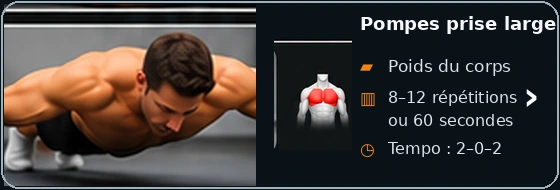
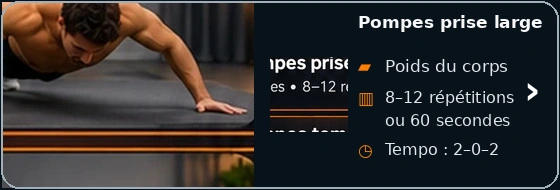
Add files via upload

diff --git a/sw.js b/sw.js
@@ -1,5 +1,5 @@
-const CACHE="ma-bibliotheque-v74";
-const ASSETS=["./","./index.html","./styles.css","./app.js","./data.json","./manifest.json","./icon-192.png","./icon-512.png","./cat-cakes-desserts.webp","./cat-cakes-sales-terrines.webp","./cat-pancakes-gaufres.webp","./cat-pains-pizzas-bruschettas.webp","./cat-quiches-tartes.webp","./cat-pates-a-tartiner.webp","./cat-plats-sales.webp","./cat-recettes-mer.webp","./cat-pates.webp","./cat-salades.webp","./cat-soupes.webp","./cat-mijoteuse.webp","./univers-musculation.webp","./muscu-menu-exercices.png","./muscu-menu-seances.png","./muscu-menu-autre-sport.png","./muscu-menu-historique.png","./exercice-groupe-pectoraux.webp","./exercice-groupe-dos.webp","./exercice-groupe-epaules.webp","./exercice-groupe-biceps.webp","./exercice-groupe-triceps.webp","./exercice-groupe-jambes.webp","./exercice-groupe-abdominaux.webp","./biceps-curl-marteau.webp","./biceps-curl-classique.webp","./biceps-curl-alterne.webp","./biceps-curl-concentration.webp","./biceps-curl-zottman.webp","./biceps-curl-prise-inversee.webp","./biceps-curl-assis.webp","./biceps-curl-unilateral.webp","./biceps-curl-isometrique.webp","./biceps-curl-kettlebell.webp","./seance-haut-corps-v2.png","./seance-bas-corps-v2.png","./seance-corps-complet-v2.png","./seance-abdos-gainage-v2.png","./sport-marche-v3.png","./sport-course-v3.png","./sport-velo-v3.png","./sport-velo-appartement-v3.png","./sport-paddle-v3.png","./recette-r014-gaufres-ig-bas-proteinees.png","./recette-r017-pancakes-proteines-ig-bas.png","./recette-r001-appareil-a-quiche-proteine-ig-bas.png","./recette-r013-gaufres-au-thon.png","./recette-r021-quiche-proteinee-legumes-sans-pate.png","./recette-r022-quiche-proteinee-legumes-thon-sans-pate.png","./recette-r023-quiche-proteinee-poulet-epinards-skyr-sans-pate.png","./recette-r029-pate-brisee-farine-pois-chiches.png","./recette-r031-pancakes-courgettes-parmesan.png","./recette-r019-choco-noisette-saine.png","./recette-r020-choco-noisette-ig-bas.png","./recette-r035-pate-amandes.png","./recette-r036-pate-cacahuetes.png","./recette-r058-veloute-pois-chiches-courgette-poireau-cumin.webp","./recette-r101-salade-poulet-avocat-oeufs.webp","./recette-r102-salade-pommes-terre-thon-oeufs.webp","./recette-r103-salade-cabillaud-avocat-oeufs.webp","./recette-r104-salade-poulet-croustillant.webp","./recette-r105-salade-mediterraneenne-pois-chiches.webp","./recette-r106-salade-pates-poulet-mozzarella.webp","./recette-r107-salade-crevettes-avocat-mangue.webp","./recette-r108-salade-quinoa-legumes-rotis-pois-chiches.webp","./recette-r109-salade-boeuf-grille-avocat.webp","./recette-r110-salade-riz-basmati-thon-oeufs.webp","./recette-r089-lasagnes-volaille-legumes.webp","./recette-r090-lasagnes-blanches-volaille-legumes.webp","./recette-r126-pates-poulet-courgettes-tomates.webp","./recette-r127-pates-pesto-tomates-parmesan.webp","./recette-r128-pates-cremeuses-poulet-champignons-epinards.webp","./recette-r129-pates-poulet-epinards-tomates.webp","./recette-r130-pates-thon-courgette-poivron-olives.webp","./recette-r131-pates-brocoli-burrata-tomates.webp","./recette-r132-pates-lentilles-corail-basilic.webp","./recette-r133-pates-lentilles-corail-tomates-confites-basilic.webp","./recette-r071-bowl-calamars-romaine.webp","./recette-r072-tacos-calamars-romaine.webp","./recette-r073-calamars-orge-legumes-rotis.webp","./recette-r074-risotto-mer-citron-safran-calamars.webp","./recette-r078-crevettes-courgettes-quinoa.webp","./recette-r079-crevettes-pois-chiches-legumes.webp","./recette-r002-cake-chocolat-poire-pepites.png","./recette-r005-cake-marbre-proteine-avoine-amande-lupin.png","./recette-r007-cake-proteine-myrtilles-chocolat.png","./recette-r011-flan-proteine-myrtille-citron.png","./recette-r030-gateau-fromage-blanc.png","./recette-r037-clafoutis-leger-pommes.png","./recette-r075-cake-proteine-ananas-coco-vanille.png","./recette-r076-tiramisu-proteine-cafe-chia.png","./recette-r077-tiramisu-proteine-poire-chocolat-chia.png","./recette-r091-cake-proteine-banane-chocolat.png","./recette-r092-cake-proteine-pomme-cannelle.png","./recette-r093-cake-proteine-banane-coco.png","./recette-r094-cake-proteine-chocolat-compote.png","./recette-r095-cake-proteine-poire-amande.png","./recette-r096-cake-proteine-carotte-cannelle-noix.png","./recette-r097-cake-proteine-banane-fruits-rouges.png","./recette-r098-cake-proteine-pomme-coco.png","./recette-r099-cake-proteine-citron-amande.png","./recette-r100-cake-proteine-banane-cacao-noisette.png","./recette-r003-cake-courgette-poivron-feta.png","./recette-r004-cake-jambon-epinards-chevre.png","./recette-r006-cake-poulet-courgette-parmesan.png","./recette-r008-cake-legumes-du-soleil.png","./recette-r009-cake-thon-courgette-skyr-sans-farine.png","./recette-r010-cake-thon-tomate-olives.png","./recette-r024-terrine-legumes-ete.png","./recette-r025-terrine-fraiche-thon-courgette.png","./recette-r038-cake-epinards-feta.png","./recette-r039-cake-poulet-curry.png","./recette-r040-cake-poivron-mozzarella.png","./recette-r041-cake-champignons-comte.png","./recette-r042-cake-carotte-chevre.png","./recette-r043-cake-thon-olives.png","./recette-r080-flan-courgettes-parmesan-skyr.png","./recette-r081-terrine-poulet-legumes.png","./recette-r082-clafoutis-tomates-courgettes-fromage.png","./recette-r083-terrine-champignons-poireaux-emmental.png","./recette-r084-gateau-pommes-terre-courgettes-chevre.png","./recette-r085-gateau-pommes-terre-chou-fleur-chevre.png","./recette-r026-wok-poulet-pousses-soja.png","./recette-r059-poulet-pommes-terre-brocoli.png","./recette-r060-saumon-riz-legumes.png","./recette-r061-poulet-cremeux-champignons-pates.png","./recette-r062-boeuf-pommes-terre-carottes-mijotes.png","./recette-r063-saucisses-pommes-terre-poivrons.png","./recette-r064-poulet-riz-legumes.png","./recette-r065-crevettes-riz-brocoli.png","./recette-r066-poulet-tex-mex-haricots-mais.png","./recette-r067-gnocchis-poulet-tomates.png","./recette-r068-boulettes-boeuf-orzo-tomates.png","./recette-r069-poulet-citron-orzo-epinards.png","./recette-r070-boeuf-cremeux-champignons-pates.png","./recette-r112-boeuf-bourguignon-mijoteuse-v2.png","./recette-r113-poulet-cremeux-ail-v2.png","./recette-r114-porc-effiloche-sauce-barbecue-v2.png","./recette-r115-ragout-boeuf-legumes-pommes-terre-v2.png","./recette-r116-boulettes-boeuf-sauce-tomate-v2.png","./recette-r117-poulet-champignons-creme-v2.png","./recette-r118-boeuf-oignons-sauce-brune-v2.png","./recette-r119-poulet-citron-herbes-v2.png","./recette-r120-porc-champignons-oignons-v2.png","./recette-r121-chili-boeuf-haricots-blancs-v2.png","./recette-r122-poulet-cremeux-pommes-terre-v3.png","./recette-r123-boeuf-mijote-thym-v2.png","./recette-r124-poulet-barbecue-miel-v3.png","./recette-r125-roti-porc-pommes-terre-v3.png","./recette-r012-fougasse-petit-epeautre-v2.png","./recette-r015-pain-complet-ig-bas-v2.png","./recette-r016-pain-pomme-terre-skyr-v2.png","./recette-r018-pate-pizza-ig-bas-v2.png","./recette-r027-pain-sarrasin-pois-chiches-graines-v2.png","./recette-r028-pain-sarrasin-v2.png","./recette-r032-pizza-express-proteinee-v2.png","./recette-r033-petits-pains-pois-chiches-v2.png","./recette-r034-pain-lentilles-corail-v2.png","./recette-r044-bruschetta-tomate-basilic-v2.png","./recette-r045-bruschetta-mozzarella-tomates-cerises.png","./recette-r046-bruschetta-jambon-cru-roquette.png","./recette-r047-bruschetta-ricotta-miel.png","./recette-r048-bruschetta-champignons-ail.png","./recette-r049-bruschetta-poivron-roti.png","./recette-r050-bruschetta-saumon-fromage-frais.png","./recette-r051-bruschetta-avocat-citron-vert.png","./recette-r052-bruschetta-thon-olives.png","./recette-r053-bruschetta-chevre-figues.png","./recette-r054-bruschetta-pesto-tomates-sechees.png","./recette-r055-bruschetta-burrata-pesto.png","./recette-r056-bruschetta-poulet-tomates-sechees.png","./recette-r057-bruschetta-crevettes-avocat.png","./recette-r086-pain-lentilles-corail.png","./recette-r087-pain-lentilles-avoine-lupin.png","./recette-r088-pain-nordique-graines.png","./recette-r111-pain-100-sarrasin.png"];
+const CACHE="ma-bibliotheque-v75";
+const ASSETS=["./","./index.html","./styles.css","./app.js","./data.json","./manifest.json","./icon-192.png","./icon-512.png","./cat-cakes-desserts.webp","./cat-cakes-sales-terrines.webp","./cat-pancakes-gaufres.webp","./cat-pains-pizzas-bruschettas.webp","./cat-quiches-tartes.webp","./cat-pates-a-tartiner.webp","./cat-plats-sales.webp","./cat-recettes-mer.webp","./cat-pates.webp","./cat-salades.webp","./cat-soupes.webp","./cat-mijoteuse.webp","./univers-musculation.webp","./muscu-menu-exercices.png","./muscu-menu-seances.png","./muscu-menu-autre-sport.png","./muscu-menu-historique.png","./exercice-groupe-pectoraux.webp","./exercice-groupe-dos.webp","./exercice-groupe-epaules.webp","./exercice-groupe-biceps.webp","./exercice-groupe-triceps.webp","./exercice-groupe-jambes.webp","./exercice-groupe-abdominaux.webp","./pectoraux-pompes-classiques.webp","./pectoraux-pompes-inclinees.webp","./pectoraux-pompes-declinees.webp","./pectoraux-developpe-sol-halteres.webp","./pectoraux-ecarte-sol-halteres.webp","./pectoraux-pullover-haltere.webp","./pectoraux-presse-unilaterale-sol.webp","./pectoraux-pompes-prise-large.webp","./pectoraux-pompes-tempo-lent.webp","./pectoraux-squeeze-press-halteres.webp","./pectoraux-pompes-classiques-detail.webp","./biceps-curl-marteau.webp","./biceps-curl-classique.webp","./biceps-curl-alterne.webp","./biceps-curl-concentration.webp","./biceps-curl-zottman.webp","./biceps-curl-prise-inversee.webp","./biceps-curl-assis.webp","./biceps-curl-unilateral.webp","./biceps-curl-isometrique.webp","./biceps-curl-kettlebell.webp","./seance-haut-corps-v2.png","./seance-bas-corps-v2.png","./seance-corps-complet-v2.png","./seance-abdos-gainage-v2.png","./sport-marche-v3.png","./sport-course-v3.png","./sport-velo-v3.png","./sport-velo-appartement-v3.png","./sport-paddle-v3.png","./recette-r014-gaufres-ig-bas-proteinees.png","./recette-r017-pancakes-proteines-ig-bas.png","./recette-r001-appareil-a-quiche-proteine-ig-bas.png","./recette-r013-gaufres-au-thon.png","./recette-r021-quiche-proteinee-legumes-sans-pate.png","./recette-r022-quiche-proteinee-legumes-thon-sans-pate.png","./recette-r023-quiche-proteinee-poulet-epinards-skyr-sans-pate.png","./recette-r029-pate-brisee-farine-pois-chiches.png","./recette-r031-pancakes-courgettes-parmesan.png","./recette-r019-choco-noisette-saine.png","./recette-r020-choco-noisette-ig-bas.png","./recette-r035-pate-amandes.png","./recette-r036-pate-cacahuetes.png","./recette-r058-veloute-pois-chiches-courgette-poireau-cumin.webp","./recette-r101-salade-poulet-avocat-oeufs.webp","./recette-r102-salade-pommes-terre-thon-oeufs.webp","./recette-r103-salade-cabillaud-avocat-oeufs.webp","./recette-r104-salade-poulet-croustillant.webp","./recette-r105-salade-mediterraneenne-pois-chiches.webp","./recette-r106-salade-pates-poulet-mozzarella.webp","./recette-r107-salade-crevettes-avocat-mangue.webp","./recette-r108-salade-quinoa-legumes-rotis-pois-chiches.webp","./recette-r109-salade-boeuf-grille-avocat.webp","./recette-r110-salade-riz-basmati-thon-oeufs.webp","./recette-r089-lasagnes-volaille-legumes.webp","./recette-r090-lasagnes-blanches-volaille-legumes.webp","./recette-r126-pates-poulet-courgettes-tomates.webp","./recette-r127-pates-pesto-tomates-parmesan.webp","./recette-r128-pates-cremeuses-poulet-champignons-epinards.webp","./recette-r129-pates-poulet-epinards-tomates.webp","./recette-r130-pates-thon-courgette-poivron-olives.webp","./recette-r131-pates-brocoli-burrata-tomates.webp","./recette-r132-pates-lentilles-corail-basilic.webp","./recette-r133-pates-lentilles-corail-tomates-confites-basilic.webp","./recette-r071-bowl-calamars-romaine.webp","./recette-r072-tacos-calamars-romaine.webp","./recette-r073-calamars-orge-legumes-rotis.webp","./recette-r074-risotto-mer-citron-safran-calamars.webp","./recette-r078-crevettes-courgettes-quinoa.webp","./recette-r079-crevettes-pois-chiches-legumes.webp","./recette-r002-cake-chocolat-poire-pepites.png","./recette-r005-cake-marbre-proteine-avoine-amande-lupin.png","./recette-r007-cake-proteine-myrtilles-chocolat.png","./recette-r011-flan-proteine-myrtille-citron.png","./recette-r030-gateau-fromage-blanc.png","./recette-r037-clafoutis-leger-pommes.png","./recette-r075-cake-proteine-ananas-coco-vanille.png","./recette-r076-tiramisu-proteine-cafe-chia.png","./recette-r077-tiramisu-proteine-poire-chocolat-chia.png","./recette-r091-cake-proteine-banane-chocolat.png","./recette-r092-cake-proteine-pomme-cannelle.png","./recette-r093-cake-proteine-banane-coco.png","./recette-r094-cake-proteine-chocolat-compote.png","./recette-r095-cake-proteine-poire-amande.png","./recette-r096-cake-proteine-carotte-cannelle-noix.png","./recette-r097-cake-proteine-banane-fruits-rouges.png","./recette-r098-cake-proteine-pomme-coco.png","./recette-r099-cake-proteine-citron-amande.png","./recette-r100-cake-proteine-banane-cacao-noisette.png","./recette-r003-cake-courgette-poivron-feta.png","./recette-r004-cake-jambon-epinards-chevre.png","./recette-r006-cake-poulet-courgette-parmesan.png","./recette-r008-cake-legumes-du-soleil.png","./recette-r009-cake-thon-courgette-skyr-sans-farine.png","./recette-r010-cake-thon-tomate-olives.png","./recette-r024-terrine-legumes-ete.png","./recette-r025-terrine-fraiche-thon-courgette.png","./recette-r038-cake-epinards-feta.png","./recette-r039-cake-poulet-curry.png","./recette-r040-cake-poivron-mozzarella.png","./recette-r041-cake-champignons-comte.png","./recette-r042-cake-carotte-chevre.png","./recette-r043-cake-thon-olives.png","./recette-r080-flan-courgettes-parmesan-skyr.png","./recette-r081-terrine-poulet-legumes.png","./recette-r082-clafoutis-tomates-courgettes-fromage.png","./recette-r083-terrine-champignons-poireaux-emmental.png","./recette-r084-gateau-pommes-terre-courgettes-chevre.png","./recette-r085-gateau-pommes-terre-chou-fleur-chevre.png","./recette-r026-wok-poulet-pousses-soja.png","./recette-r059-poulet-pommes-terre-brocoli.png","./recette-r060-saumon-riz-legumes.png","./recette-r061-poulet-cremeux-champignons-pates.png","./recette-r062-boeuf-pommes-terre-carottes-mijotes.png","./recette-r063-saucisses-pommes-terre-poivrons.png","./recette-r064-poulet-riz-legumes.png","./recette-r065-crevettes-riz-brocoli.png","./recette-r066-poulet-tex-mex-haricots-mais.png","./recette-r067-gnocchis-poulet-tomates.png","./recette-r068-boulettes-boeuf-orzo-tomates.png","./recette-r069-poulet-citron-orzo-epinards.png","./recette-r070-boeuf-cremeux-champignons-pates.png","./recette-r112-boeuf-bourguignon-mijoteuse-v2.png","./recette-r113-poulet-cremeux-ail-v2.png","./recette-r114-porc-effiloche-sauce-barbecue-v2.png","./recette-r115-ragout-boeuf-legumes-pommes-terre-v2.png","./recette-r116-boulettes-boeuf-sauce-tomate-v2.png","./recette-r117-poulet-champignons-creme-v2.png","./recette-r118-boeuf-oignons-sauce-brune-v2.png","./recette-r119-poulet-citron-herbes-v2.png","./recette-r120-porc-champignons-oignons-v2.png","./recette-r121-chili-boeuf-haricots-blancs-v2.png","./recette-r122-poulet-cremeux-pommes-terre-v3.png","./recette-r123-boeuf-mijote-thym-v2.png","./recette-r124-poulet-barbecue-miel-v3.png","./recette-r125-roti-porc-pommes-terre-v3.png","./recette-r012-fougasse-petit-epeautre-v2.png","./recette-r015-pain-complet-ig-bas-v2.png","./recette-r016-pain-pomme-terre-skyr-v2.png","./recette-r018-pate-pizza-ig-bas-v2.png","./recette-r027-pain-sarrasin-pois-chiches-graines-v2.png","./recette-r028-pain-sarrasin-v2.png","./recette-r032-pizza-express-proteinee-v2.png","./recette-r033-petits-pains-pois-chiches-v2.png","./recette-r034-pain-lentilles-corail-v2.png","./recette-r044-bruschetta-tomate-basilic-v2.png","./recette-r045-bruschetta-mozzarella-tomates-cerises.png","./recette-r046-bruschetta-jambon-cru-roquette.png","./recette-r047-bruschetta-ricotta-miel.png","./recette-r048-bruschetta-champignons-ail.png","./recette-r049-bruschetta-poivron-roti.png","./recette-r050-bruschetta-saumon-fromage-frais.png","./recette-r051-bruschetta-avocat-citron-vert.png","./recette-r052-bruschetta-thon-olives.png","./recette-r053-bruschetta-chevre-figues.png","./recette-r054-bruschetta-pesto-tomates-sechees.png","./recette-r055-bruschetta-burrata-pesto.png","./recette-r056-bruschetta-poulet-tomates-sechees.png","./recette-r057-bruschetta-crevettes-avocat.png","./recette-r086-pain-lentilles-corail.png","./recette-r087-pain-lentilles-avoine-lupin.png","./recette-r088-pain-nordique-graines.png","./recette-r111-pain-100-sarrasin.png"];
 
 self.addEventListener("install", event => {
   self.skipWaiting();

diff --git a/app.js b/app.js
@@ -329,10 +329,35 @@ function renderMuscuExercises(){
   document.getElementById("muscuExercisesBack")?.addEventListener("click",()=>{state.view="muscu-menu";render();});
   document.querySelectorAll("[data-muscle]").forEach(btn=>btn.addEventListener("click",()=>{
     const muscle=btn.dataset.muscle;
+    if(muscle==="pectoraux"){ state.view="muscu-pectoraux"; render(); return; }
     if(muscle==="biceps"){ state.view="muscu-biceps"; render(); return; }
     const label=btn.getAttribute("aria-label")?.replace("Ouvrir les exercices ","") || "ce groupe";
     alert(`Les fiches ${label} seront ajoutées à l’étape suivante.`);
   }));
+}
+
+function renderMuscuPectoraux(){
+  const exercises=[
+    ["pompes-classiques","Pompes classiques"],["pompes-inclinees","Pompes inclinées"],["pompes-declinees","Pompes déclinées"],
+    ["developpe-sol-halteres","Développé couché au sol haltères"],["ecarte-sol-halteres","Écarté couché au sol haltères"],
+    ["pullover-haltere","Pullover haltère"],["presse-unilaterale-sol","Presse poitrine unilatérale au sol"],
+    ["pompes-prise-large","Pompes prise large"],["pompes-tempo-lent","Pompes tempo lent"],["squeeze-press-halteres","Squeeze press haltères"]
+  ];
+  main.innerHTML=`<section class="muscu-biceps-v1" aria-label="Exercices pectoraux">
+    <button class="muscu-back-pill muscu-biceps-back" id="muscuPectorauxBack"><span class="muscu-back-arrow">←</span><span>Retour</span></button>
+    <div class="muscu-biceps-heading"><div class="muscu-biceps-icon" aria-hidden="true">⌁</div><div><div class="muscu-biceps-kicker">EXERCICES</div><h2>Pectoraux</h2><p>10 exercices pour développer et renforcer les pectoraux à la maison</p></div></div>
+    <div class="muscu-biceps-list">${exercises.map(([key,label])=>`<button class="muscu-biceps-card" data-pectoraux-exercise="${key}" aria-label="Ouvrir ${label}"><img src="./pectoraux-${key}.webp" alt="${label}"></button>`).join("")}</div>
+  </section>`;
+  document.getElementById("muscuPectorauxBack")?.addEventListener("click",()=>{state.view="muscu-exercises";render();});
+  document.querySelectorAll("[data-pectoraux-exercise]").forEach(btn=>btn.addEventListener("click",()=>{
+    if(btn.dataset.pectorauxExercise==="pompes-classiques"){state.view="muscu-pectoraux-pompes-classiques";render();return;}
+    const label=btn.getAttribute("aria-label")?.replace("Ouvrir ","")||"cet exercice"; alert(`La fiche détaillée ${label} sera ajoutée ensuite.`);
+  }));
+}
+
+function renderPectorauxPompesClassiques(){
+  main.innerHTML=`<section class="muscu-detail-img-page"><div class="muscu-detail-img-wrap"><img src="./pectoraux-pompes-classiques-detail.webp" alt="Fiche Pompes classiques"><button class="muscu-detail-back-hit" id="pompesBack" aria-label="Retour aux pectoraux"></button></div></section>`;
+  document.getElementById("pompesBack")?.addEventListener("click",()=>{state.view="muscu-pectoraux";render();});
 }
 
 function renderMuscuBiceps(){
@@ -461,7 +486,7 @@ function renderMuscuHistory(){
 
 function updateShell(){
   const onHub=state.view==="hub";
-  const onMuscu=state.view==="muscu-entry" || state.view==="muscu-menu" || state.view==="muscu-exercises" || state.view==="muscu-sessions" || state.view==="muscu-other" || state.view==="muscu-history" || state.view==="muscu-biceps";
+  const onMuscu=state.view==="muscu-entry" || state.view==="muscu-menu" || state.view==="muscu-exercises" || state.view==="muscu-sessions" || state.view==="muscu-other" || state.view==="muscu-history" || state.view==="muscu-biceps" || state.view==="muscu-pectoraux" || state.view==="muscu-pectoraux-pompes-classiques";
   bottomNav.classList.toggle("hidden",onHub || onMuscu);
   if(onHub){
     brandMark.textContent="MB";
@@ -615,6 +640,8 @@ function render(){
   if(state.view==="muscu-entry") return renderMuscuEntry();
   if(state.view==="muscu-menu") return renderMuscuMenu();
   if(state.view==="muscu-exercises") return renderMuscuExercises();
+  if(state.view==="muscu-pectoraux") return renderMuscuPectoraux();
+  if(state.view==="muscu-pectoraux-pompes-classiques") return renderPectorauxPompesClassiques();
   if(state.view==="muscu-biceps") return renderMuscuBiceps();
   if(state.view==="muscu-sessions") return renderMuscuSessions();
   if(state.view==="muscu-other") return renderMuscuOther();

diff --git a/styles.css b/styles.css
@@ -568,3 +568,9 @@ dialog::backdrop{background:rgba(31,42,35,.42);backdrop-filter:blur(2px)}
   .muscu-biceps-card{width:100%!important;max-width:100%!important;min-width:0!important;border-radius:15px}
   .muscu-biceps-card img{width:100%!important;max-width:100%!important;height:auto!important}
 }
+
+.muscu-detail-img-page{width:100%;max-width:940px;margin:0 auto;padding:0;background:#0b131b;border-radius:24px;overflow:hidden}
+.muscu-detail-img-wrap{position:relative;width:100%}
+.muscu-detail-img-wrap img{display:block;width:100%;height:auto;max-width:100%}
+.muscu-detail-back-hit{position:absolute;left:3.5%;top:4.2%;width:16%;height:7%;border:0;background:transparent;border-radius:18px}
+@media(max-width:680px){.muscu-detail-img-page{max-width:100%;border-radius:20px}.muscu-detail-back-hit{left:3.5%;top:4.2%;width:20%;height:7%}}
